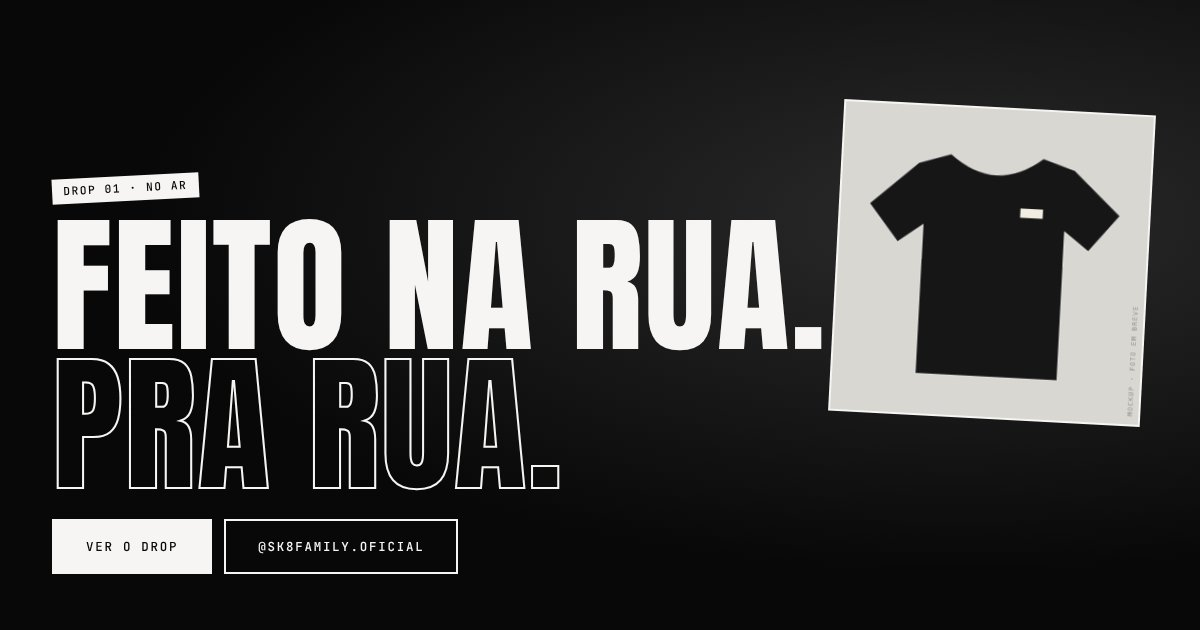
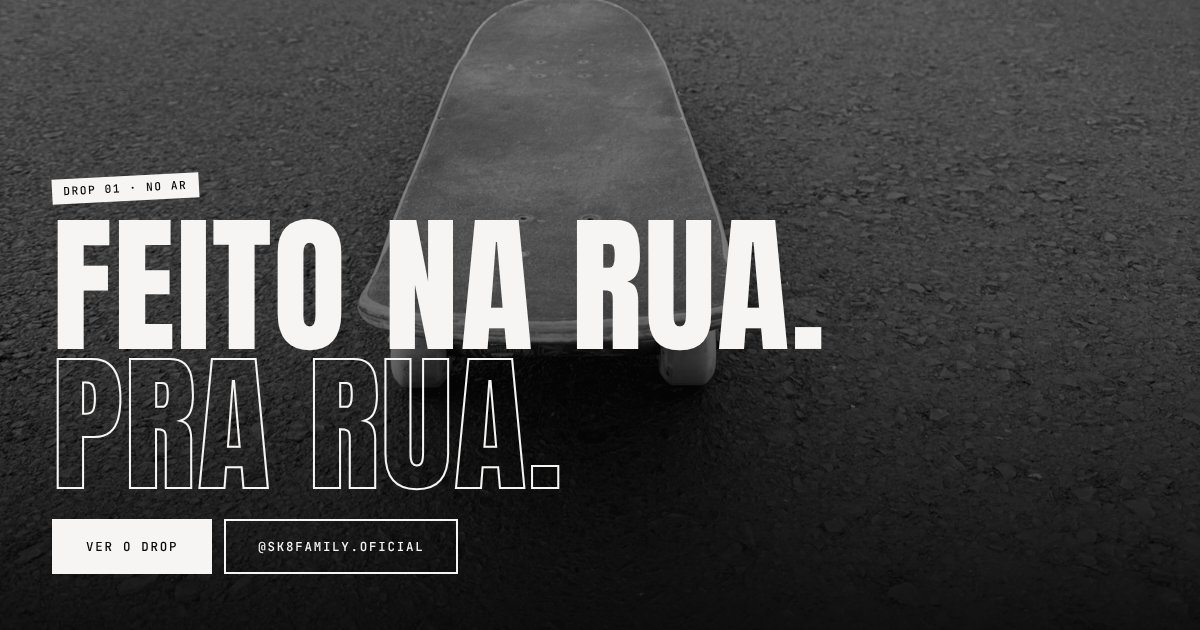
Fotos do Instagram da marca no carrossel da página inicial
Cinco slides com fotos do perfil @sk8family.oficial (skate na rua, manobra,
moletons, a turma e as camisetas), exibidas em preto e branco, com
enquadramento ajustável por slide. Os cards das peças seguem com mockups.

Claude-Session: https://claude.ai/code/session_012ifzB3deZgB6wvBGcModLh

diff --git a/catalog.js b/catalog.js
@@ -124,14 +124,18 @@ window.SK8 = (function () {
   const colecoes = Array.from(new Set(modelos.map((m) => m.collection)));
   const tipos = Array.from(new Set(modelos.map((m) => m.tipo))).map((id) => ({ id, nome: TIPOS[id].nome }));
 
-  // Slides da página inicial (carrossel).
+  // Slides da página inicial (carrossel). Fotos do Instagram da marca.
   //   etiqueta: selo pequeno · titulo: linha cheia · contorno: linha só com contorno
-  //   botao + href: botão principal · slug: peça mostrada ao lado enquanto não há foto
-  //   img: foto de fundo do slide, ex.: "/assets/hero_1.jpg" (fica em preto e branco sozinha)
+  //   botao + href: botão principal
+  //   img: foto de fundo (fica em preto e branco sozinha) · pos: parte da foto que fica à mostra
+  //        ("center 70%" = mais para baixo, "center 30%" = mais para cima)
+  //   Sem img, o slide mostra a peça do "slug" sobre fundo preto.
   const heroSlides = [
-    { etiqueta: "Drop 01 · No ar", titulo: "Feito na rua.", contorno: "Pra rua.", botao: "Ver o drop", href: "/produtos?colecao=Drop%2001", slug: "camiseta-oversized-family", img: "", colecao: "Drop 01" },
-    { etiqueta: "Drop 01 · Limitado", titulo: "Malha pesada.", contorno: "Corte largo.", botao: "Ver o moletom", href: "/produtos/moletom-pesado-drop-01", slug: "moletom-pesado-drop-01", img: "", colecao: "Drop 01" },
-    { etiqueta: "Tiragem limitada", titulo: "Acabou,", contorno: "acabou.", botao: "Ver todas as peças", href: "/produtos", slug: "calca-cargo-sarja", img: "", colecao: "Drop 01" },
+    { etiqueta: "Drop 01 · No ar", titulo: "Feito na rua.", contorno: "Pra rua.", botao: "Ver o drop", href: "/produtos?colecao=Drop%2001", img: "/assets/hero_1.jpg", pos: "center 78%" },
+    { etiqueta: "A família na pista", titulo: "Sessão", contorno: "todo dia.", botao: "Ver todas as peças", href: "/produtos", img: "/assets/hero_2.jpg", pos: "center 62%" },
+    { etiqueta: "Drop 01 · Limitado", titulo: "Malha pesada.", contorno: "Corte largo.", botao: "Ver o moletom", href: "/produtos/moletom-pesado-drop-01", img: "/assets/hero_3.jpg", pos: "center 24%" },
+    { etiqueta: "Desde 2014", titulo: "Bem-vindo", contorno: "à família.", botao: "Conhecer a família", href: "/sobre", img: "/assets/hero_4.jpg", pos: "center 40%" },
+    { etiqueta: "Tiragem limitada", titulo: "Acabou,", contorno: "acabou.", botao: "Ver as camisetas", href: "/produtos?tipo=camiseta", img: "/assets/hero_5.jpg", pos: "center 55%" },
   ];
 
   function whatsLink(phone, text) {

diff --git a/styles.css b/styles.css
@@ -96,11 +96,11 @@ main { min-height: 80vh; }
 .hero-slide { position: absolute; inset: 0; opacity: 0; transition: opacity .6s; background: radial-gradient(110% 90% at 80% 35%, #2b2b2b 0%, var(--black) 62%); }
 .hero-slide.on { opacity: 1; }
 .cover { position: absolute; inset: 0; width: 100%; height: 100%; object-fit: cover; }
-.hero .cover { filter: grayscale(1) contrast(1.05); }
+.hero .cover { filter: grayscale(1) contrast(1.1) brightness(.82); }
 .hero-piece { position: absolute; top: 1.75rem; right: 1.25rem; width: min(50vw, 14rem); transform: rotate(3deg); border: 2px solid var(--foreground); background: var(--secondary); }
 .hero-slide.on .hero-piece { animation: dropin .7s cubic-bezier(.2,.7,.2,1) both; }
 .hero-piece img { width: 100%; aspect-ratio: 1; object-fit: contain; }
-.fade { position: absolute; inset: 0; background: linear-gradient(0deg, rgb(8 8 8 / 88%) 0%, rgb(8 8 8 / 35%) 45%, rgb(8 8 8 / 20%) 100%); pointer-events: none; }
+.fade { position: absolute; inset: 0; background: linear-gradient(0deg, rgb(8 8 8 / 90%) 0%, rgb(8 8 8 / 45%) 50%, rgb(8 8 8 / 25%) 100%); pointer-events: none; }
 .hero-content { position: relative; max-width: 82rem; margin: 0 auto; height: 100%; display: flex; flex-direction: column; justify-content: flex-end; padding: 0 1.25rem 6.5rem; pointer-events: none; }
 .hero-text { animation: rise .7s cubic-bezier(.2,.7,.2,1) both; pointer-events: auto; }
 .tag { display: inline-block; background: var(--foreground); color: var(--background); padding: .25rem .7rem; font-size: .7rem; font-weight: 500; letter-spacing: .14em; text-transform: uppercase; transform: rotate(-3deg); }
@@ -113,6 +113,7 @@ main { min-height: 80vh; }
 .hero-arrow.prev { right: 4.75rem; } .hero-arrow.next { right: 1.25rem; }
 .hero-counter { position: absolute; bottom: 2.2rem; right: 9rem; font-size: .85rem; font-weight: 700; }
 .hero-counter .dim { color: var(--fg-60); }
+@media (max-width: 479px) { .hero-counter { display: none; } }
 .hero-dots { position: absolute; bottom: 2.6rem; left: 1.25rem; display: flex; gap: .5rem; }
 .hero-dots button { height: 5px; width: 1.5rem; background: var(--fg-40); transition: all .25s; position: relative; }
 .hero-dots button::after { content: ""; position: absolute; inset: -12px 0; }

diff --git a/app.js b/app.js
@@ -249,14 +249,14 @@
   let heroTimer = null;
 
   function Home() {
-    const faixa = Array(8).fill(`<span>${esc(heroSlides[0].colecao)} · Peças limitadas · Pedido pelo WhatsApp<i>✦</i></span>`).join("");
+    const faixa = Array(8).fill(`<span>${esc(colecoes[0])} · Peças limitadas · Pedido pelo WhatsApp<i>✦</i></span>`).join("");
     const destaque = (sl) => modelos.find((m) => m.slug === sl.slug) || modelos[0];
     const drop = modelos.filter((m) => m.collection === colecoes[0]);
     const pilares = PILARES;
     app.innerHTML = `
       <section class="hero" aria-roledescription="carrossel" aria-label="Destaques">
         ${heroSlides.map((sl, k) => `<div class="hero-slide ${k === 0 ? "on" : ""}" data-k="${k}">
-          ${sl.img ? `<img src="${esc(sl.img)}" alt="" class="cover"><div class="fade"></div>` : `<div class="hero-piece">${IMG(destaque(sl).fotos.frente, destaque(sl).name)}</div>`}
+          ${sl.img ? `<img src="${esc(sl.img)}" alt="" class="cover" style="object-position:${esc(sl.pos || "center")}" ${k ? 'loading="lazy"' : ""}><div class="fade"></div>` : `<div class="hero-piece">${IMG(destaque(sl).fotos.frente, destaque(sl).name)}</div>`}
         </div>`).join("")}
         <div class="hero-content"><div id="hero-text"></div></div>
         <button class="hero-arrow prev" aria-label="Slide anterior">${icon("left")}</button>

diff --git a/LEIAME.md b/LEIAME.md
@@ -2,7 +2,8 @@
 
 Loja da SK8FAMILY em HTML, CSS e JavaScript puros, sem dependências.
 
-> As peças, os preços e os textos atuais são **exemplos**, e as fotos são **mockups** (desenhos).
+> As peças, os preços e os textos atuais são **exemplos**, e as fotos das peças são **mockups** (desenhos).
+> As fotos do carrossel (`assets/hero_1.jpg` a `hero_5.jpg`) vieram do Instagram da marca.
 > Troque pelos dados e fotos reais antes de divulgar.
 
 ## Onde editar
@@ -22,7 +23,7 @@ Em `catalog.js`, preencha:
 ## Trocar os mockups por fotos
 1. Salve as fotos em `assets/produtos/` como `peca_N_frente.jpg`, `peca_N_costas.jpg` e `peca_N_conjunto.jpg` (N é o primeiro número da peça em `catalog.js`).
 2. Em `catalog.js`, mude `EXT_FOTO` de `"svg"` para `"jpg"`.
-3. Para foto de fundo no carrossel da página inicial, preencha `img` em `heroSlides` (ex.: `"/assets/hero_1.jpg"`).
+3. Para trocar as fotos do carrossel da página inicial, substitua `assets/hero_N.jpg` ou edite `heroSlides` (`img` é a foto e `pos` a parte dela que fica à mostra).
 
 As fotos aparecem em preto e branco no site (filtro no `styles.css`), mesmo que o arquivo seja colorido.
 
